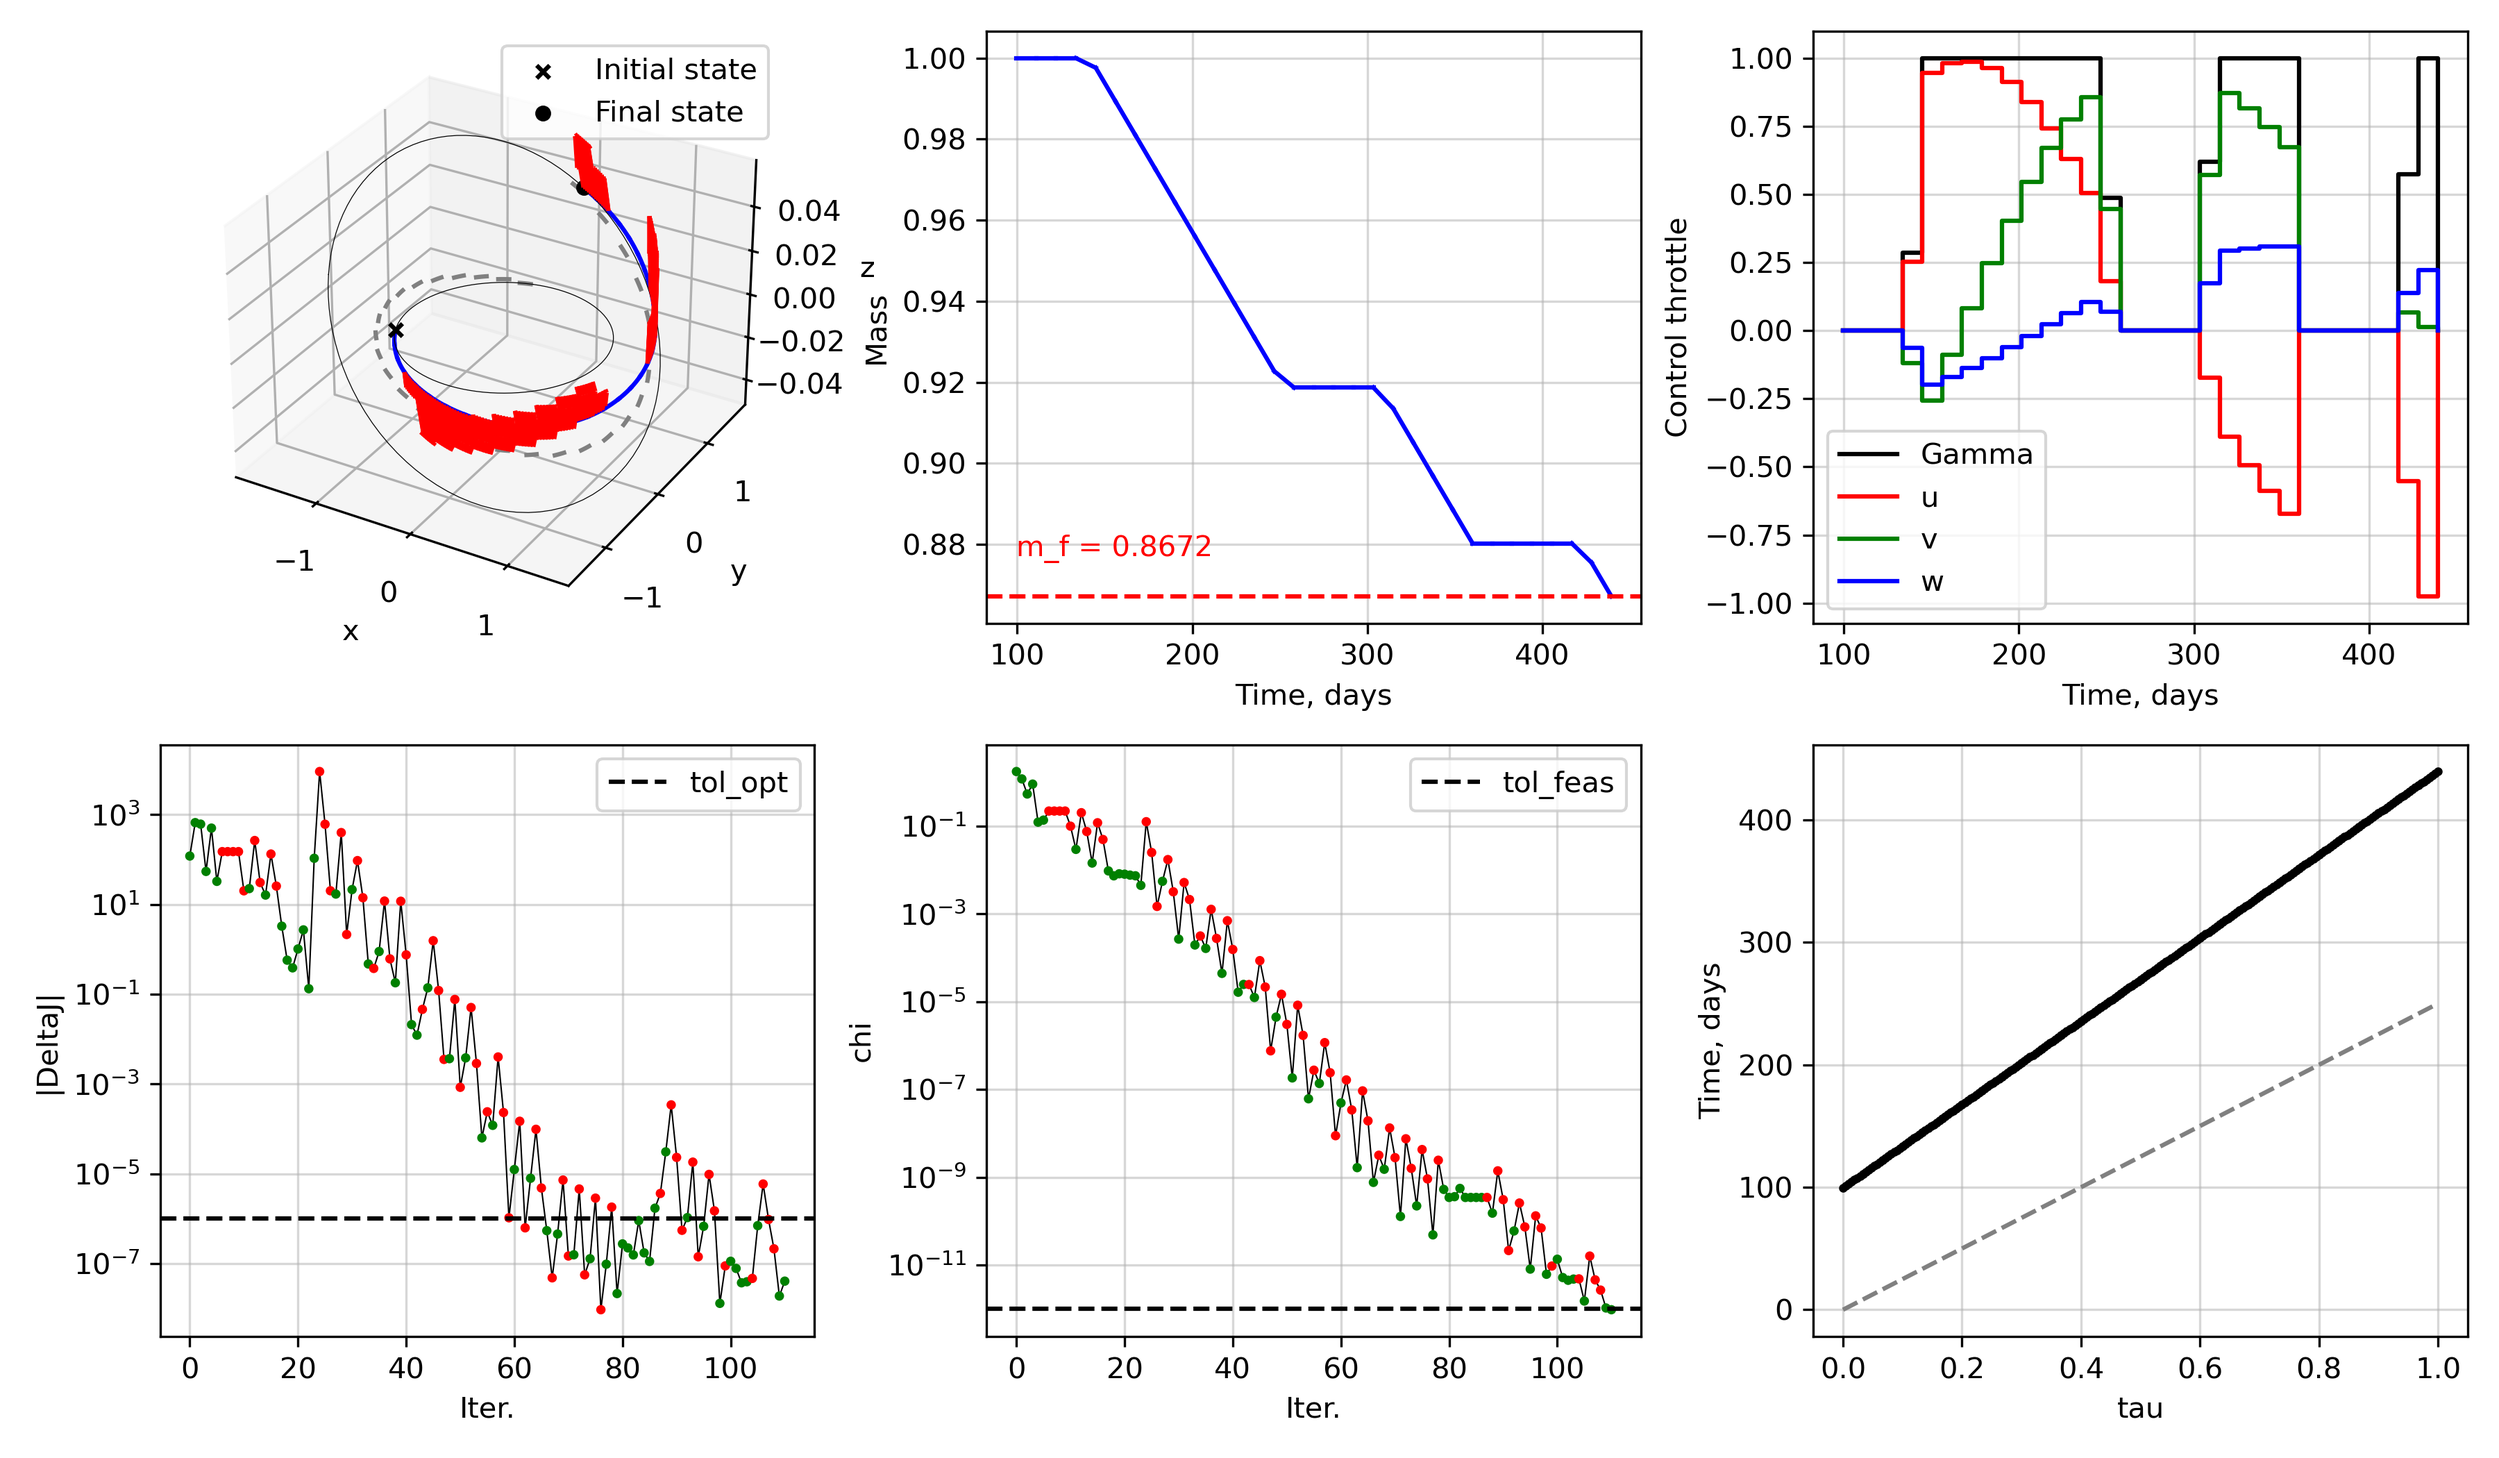
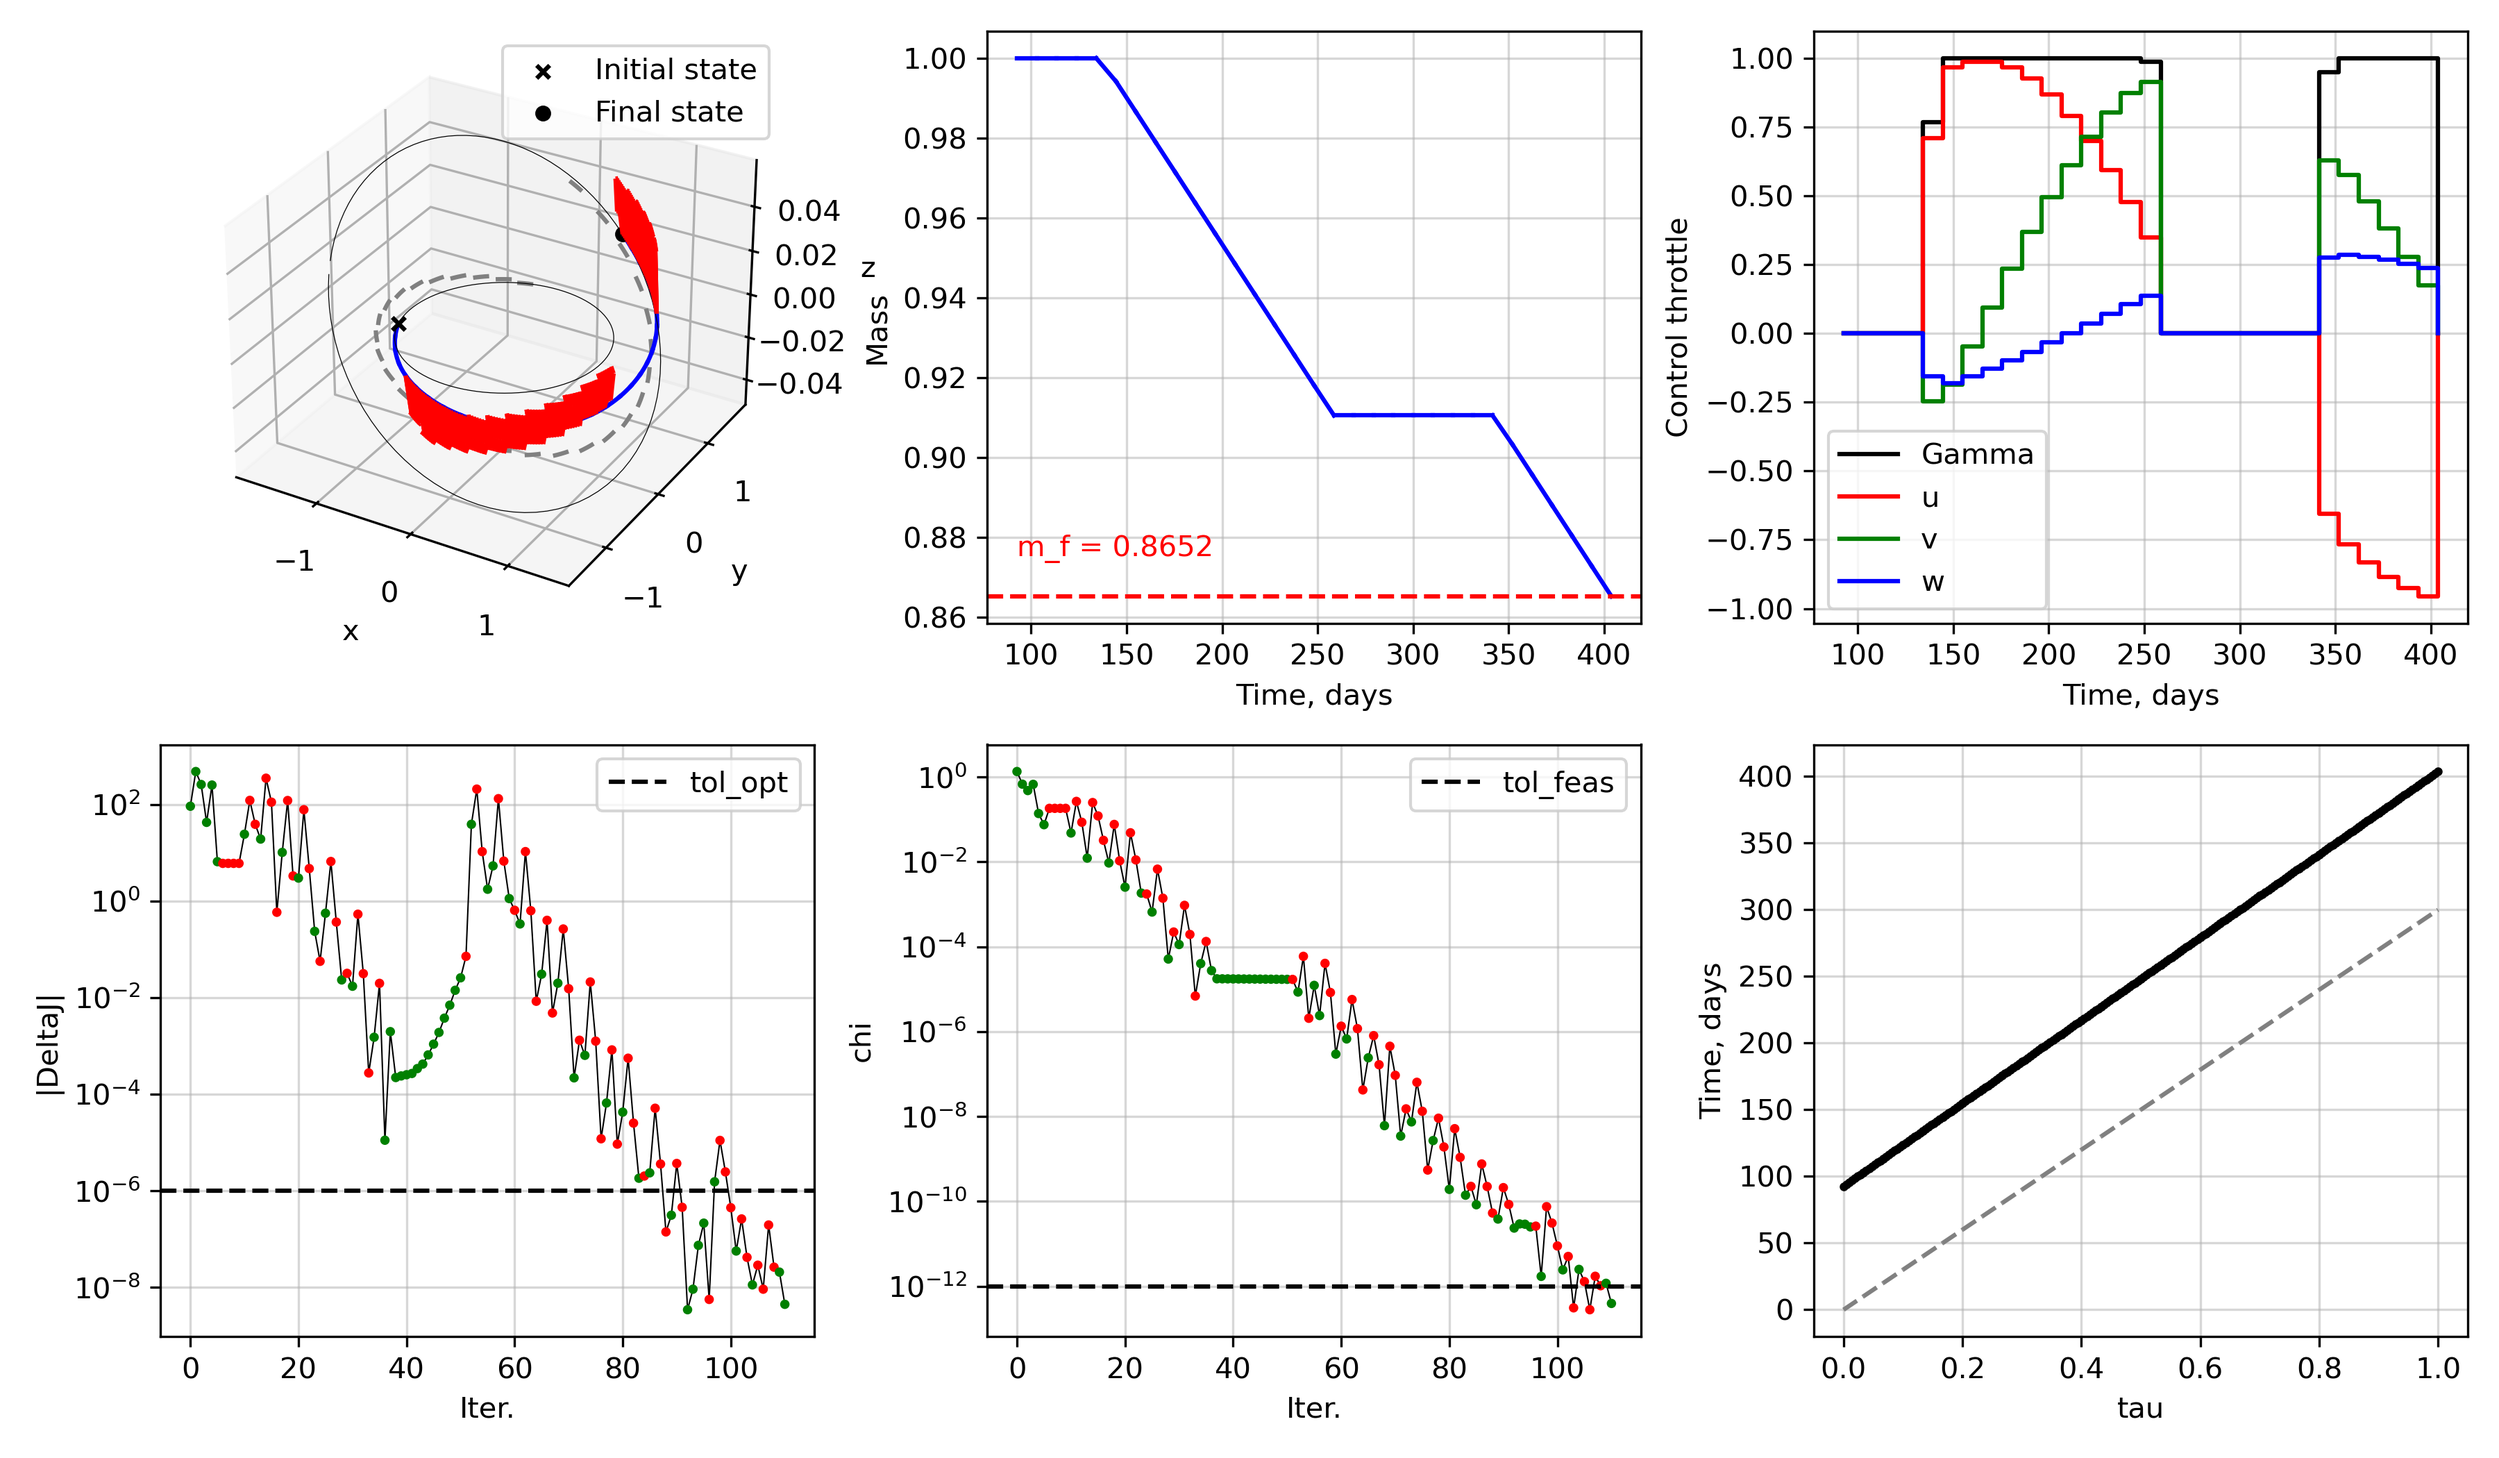
problem update

diff --git a/scocp_pykep/_scocp_pl2pl.py b/scocp_pykep/_scocp_pl2pl.py
@@ -15,6 +15,7 @@ from scocp import (
     rhs_twobody,
     mee2rv,
     rv2mee,
+    keplerder_nostm,
 )
 
 
@@ -196,7 +197,8 @@ class scocp_pl2pl_logmass(ContinuousControlSCOCP):
         t_eval = np.linspace(0, period, steps)
         states = np.zeros((steps, 6))
         for i, t in enumerate(t_eval):
-            states[i,0:3], states[i,3:6] = pk.propagate_lagrangian(self.x0[0:3], self.x0[3:6], t, mu=self.mu)
+            #states[i,0:3], states[i,3:6] = pk.propagate_lagrangian(self.x0[0:3], self.x0[3:6], t, mu=self.mu)
+            states[i,:] = keplerder_nostm(self.mu, self.x0, 0.0, t)
         return t_eval, states
     
     def get_final_orbit(self, steps: int=100):
@@ -214,7 +216,8 @@ class scocp_pl2pl_logmass(ContinuousControlSCOCP):
         t_eval = np.linspace(0, period, steps)
         states = np.zeros((steps, 6))
         for i, t in enumerate(t_eval):
-            states[i,0:3], states[i,3:6] = pk.propagate_lagrangian(xf0[0:3], xf0[3:6], t, mu=self.mu)
+            #states[i,0:3], states[i,3:6] = pk.propagate_lagrangian(xf0[0:3], xf0[3:6], t, mu=self.mu)
+            states[i,:] = keplerder_nostm(self.mu, xf0, 0.0, t)
         return t_eval, states
     
     def get_initial_guess(self, t0_guess: float, tf_guess: float, Nrev_guess: float = 1.0):
@@ -597,7 +600,8 @@ class scocp_pl2pl(ContinuousControlSCOCP):
         t_eval = np.linspace(0, period, steps)
         states = np.zeros((steps, 6))
         for i, t in enumerate(t_eval):
-            states[i,0:3], states[i,3:6] = pk.propagate_lagrangian(self.x0[0:3], self.x0[3:6], t, mu=self.mu)
+            #states[i,0:3], states[i,3:6] = pk.propagate_lagrangian(self.x0[0:3], self.x0[3:6], t, mu=self.mu)
+            states[i,:] = keplerder_nostm(self.mu, self.x0, 0.0, t)
         return t_eval, states
     
     def get_final_orbit(self, steps: int=100):
@@ -615,23 +619,24 @@ class scocp_pl2pl(ContinuousControlSCOCP):
         t_eval = np.linspace(0, period, steps)
         states = np.zeros((steps, 6))
         for i, t in enumerate(t_eval):
-            states[i,0:3], states[i,3:6] = pk.propagate_lagrangian(xf0[0:3], xf0[3:6], t, mu=self.mu)
+            #states[i,0:3], states[i,3:6] = pk.propagate_lagrangian(xf0[0:3], xf0[3:6], t, mu=self.mu)
+            states[i,:] = keplerder_nostm(self.mu, xf0, 0.0, t)
         return t_eval, states
     
     def get_initial_guess(self, t0_guess: float, tf_guess: float, Nrev_guess: float = 1.0):
         """Construct initial guess based on linear interpolation along orbital elements
         
         Args:
-            t0_guess_si (float): guess for loiter time
-            tf_guess_si (float): guess for final arrival time
+            t0_guess_si (float): guess for departure time in MJD
+            tf_guess_si (float): guess for final arrival time in MJD
             Nrev_guess (float): guess for number of revolutions
         
         Returns:
             (tuple): tuple of `(N,8)` array of state history, `(N-1,4)` array of control history, and `(N-1,1)` array of constraint history
         """
         # re-scale time
-        t0_guess = t0_guess / self.TU2DAY
-        tf_guess = tf_guess / self.TU2DAY
+        t0_guess = (t0_guess - self.t0_min) / self.TU2DAY
+        tf_guess = (tf_guess - self.t0_min) / self.TU2DAY
 
         # initial orbital elements
         x0 = self.target_initial.target_state(t0_guess)

diff --git a/examples/example_pl2pl.py b/examples/example_pl2pl.py
@@ -33,8 +33,8 @@ def example_pl2pl(use_heyoka=True, get_plot=False):
 
     # define transfer problem discretization
     tf_bounds = [1200.0, 1700.0]
-    t0_guess = 0.0
-    tf_guess = 250.0
+    t0_guess = 1100.0
+    tf_guess = 1400.0
     N = 30
     s_bounds = [0.01*tf_guess, 10*tf_guess]
 
@@ -95,6 +95,7 @@ def example_pl2pl(use_heyoka=True, get_plot=False):
     # create initial guess
     print(f"Preparing initial guess...")
     xbar, ubar, vbar = problem.get_initial_guess(t0_guess, tf_guess)
+    ybar = np.zeros((problem.ny),)    # initial guess for v-infinity vectors
     geq_nl_ig, sols_ig = problem.evaluate_nonlinear_dynamics(xbar, ubar, vbar, steps=5)   # evaluate initial guess
 
     # setup algorithm & solve
@@ -105,6 +106,7 @@ def example_pl2pl(use_heyoka=True, get_plot=False):
         xbar,
         ubar,
         vbar,
+        ybar = ybar,
         maxiter = 200,
         verbose = True
     )

diff --git a/tests_pykep/test_pl2pl.py b/tests_pykep/test_pl2pl.py
@@ -34,8 +34,8 @@ def example_pl2pl(use_heyoka=True, get_plot=False):
 
     # define transfer problem discretization
     tf_bounds = [1200.0, 1700.0]
-    t0_guess = 0.0
-    tf_guess = 250.0
+    t0_guess = 1100.0
+    tf_guess = 1400.0
     N = 30
     s_bounds = [0.01*tf_guess, 10*tf_guess]
 
